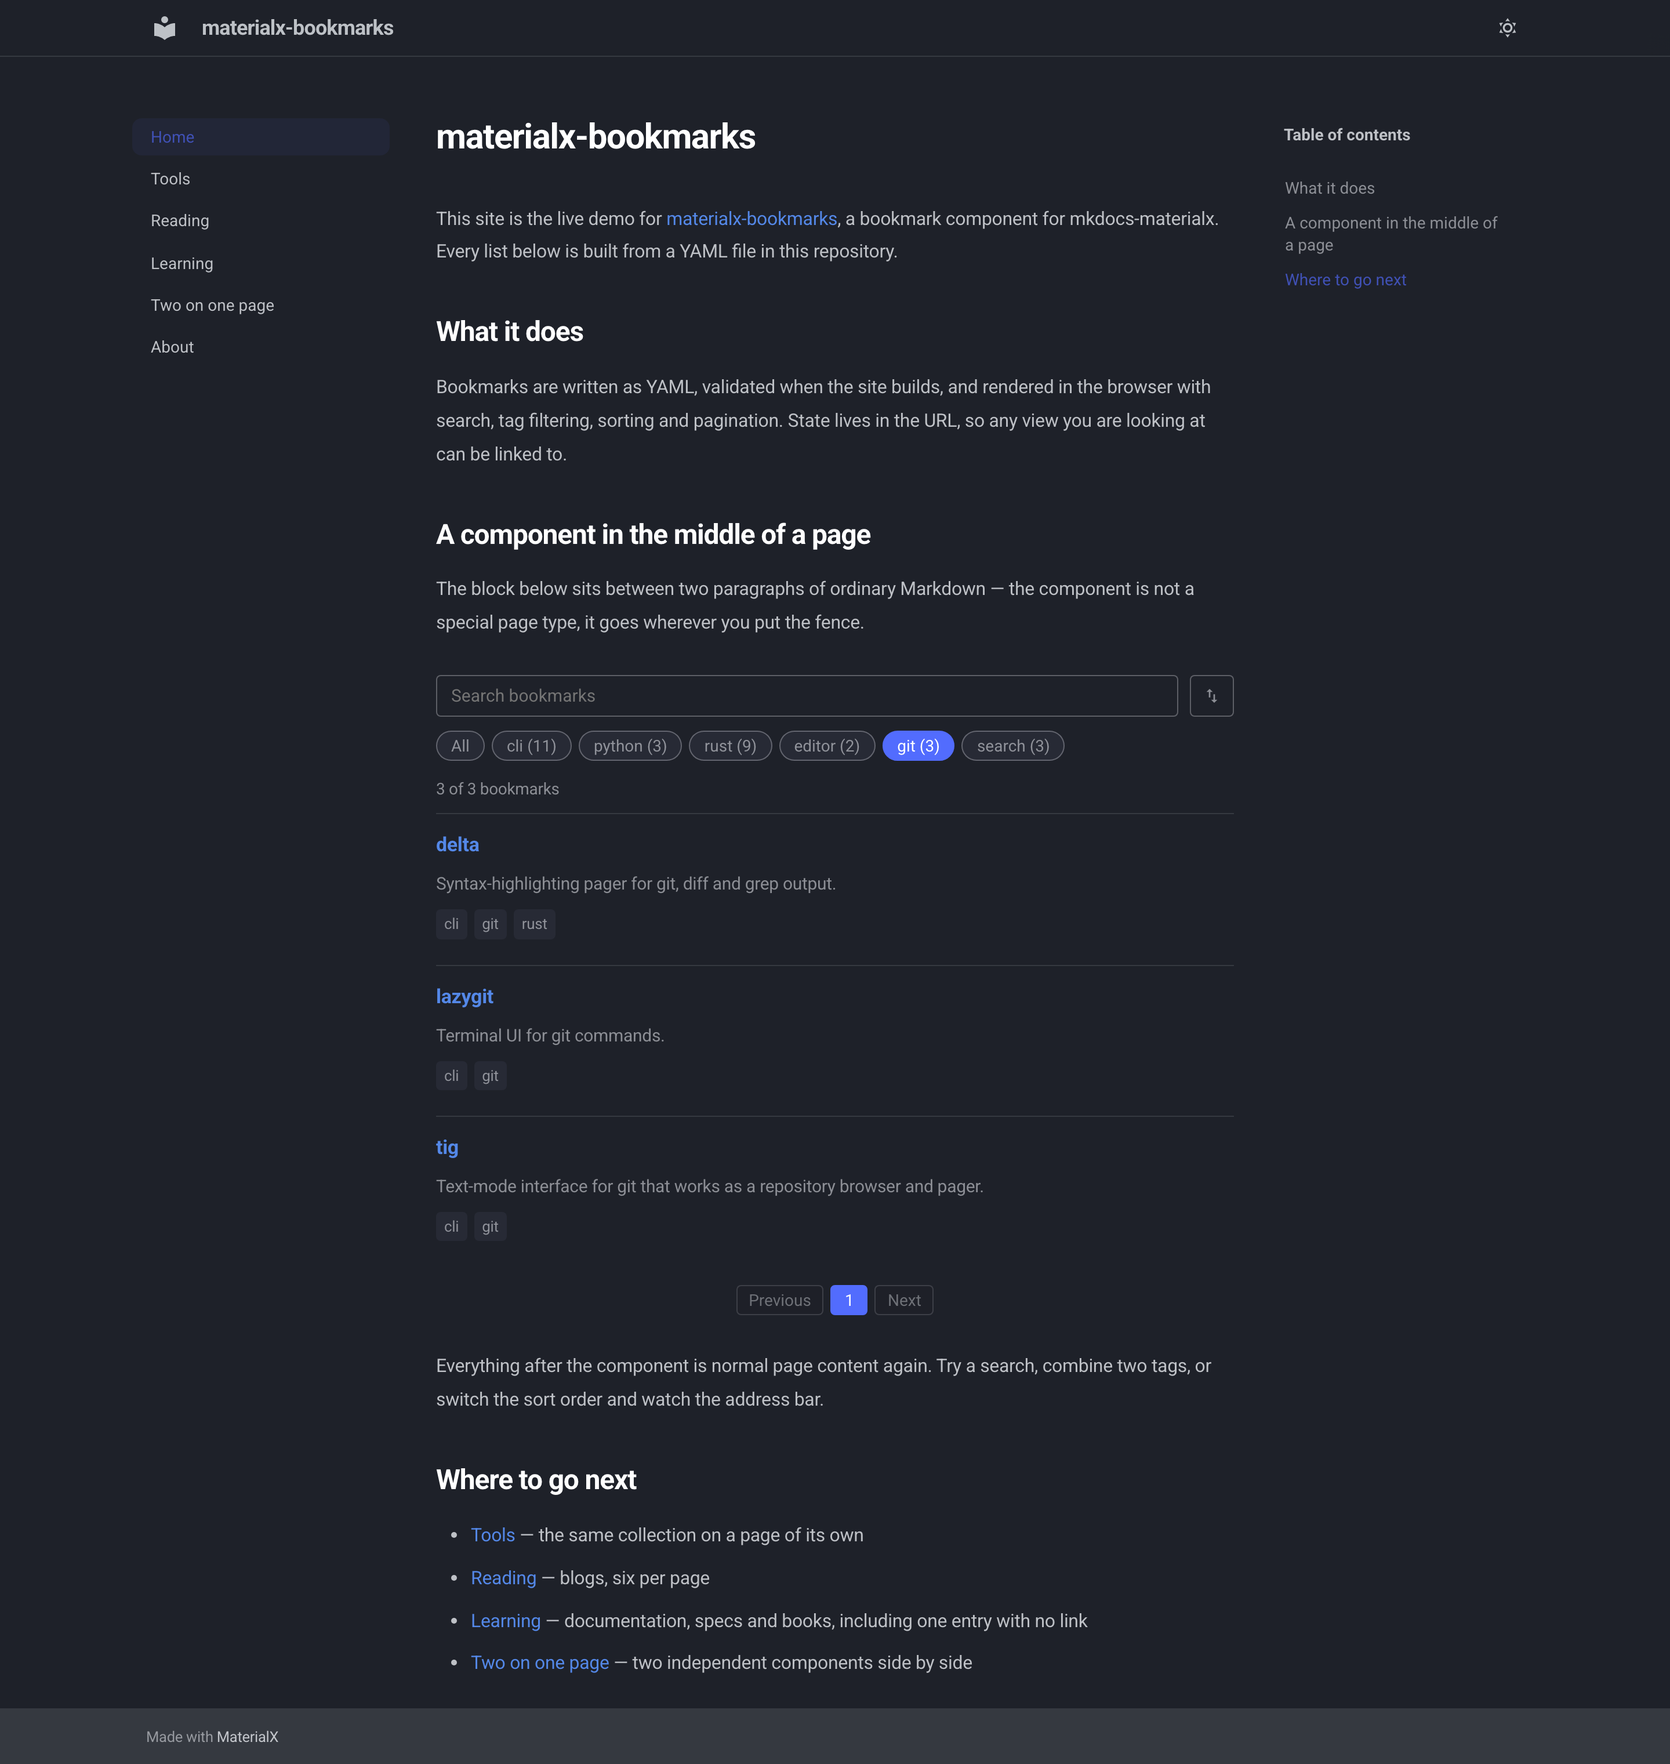
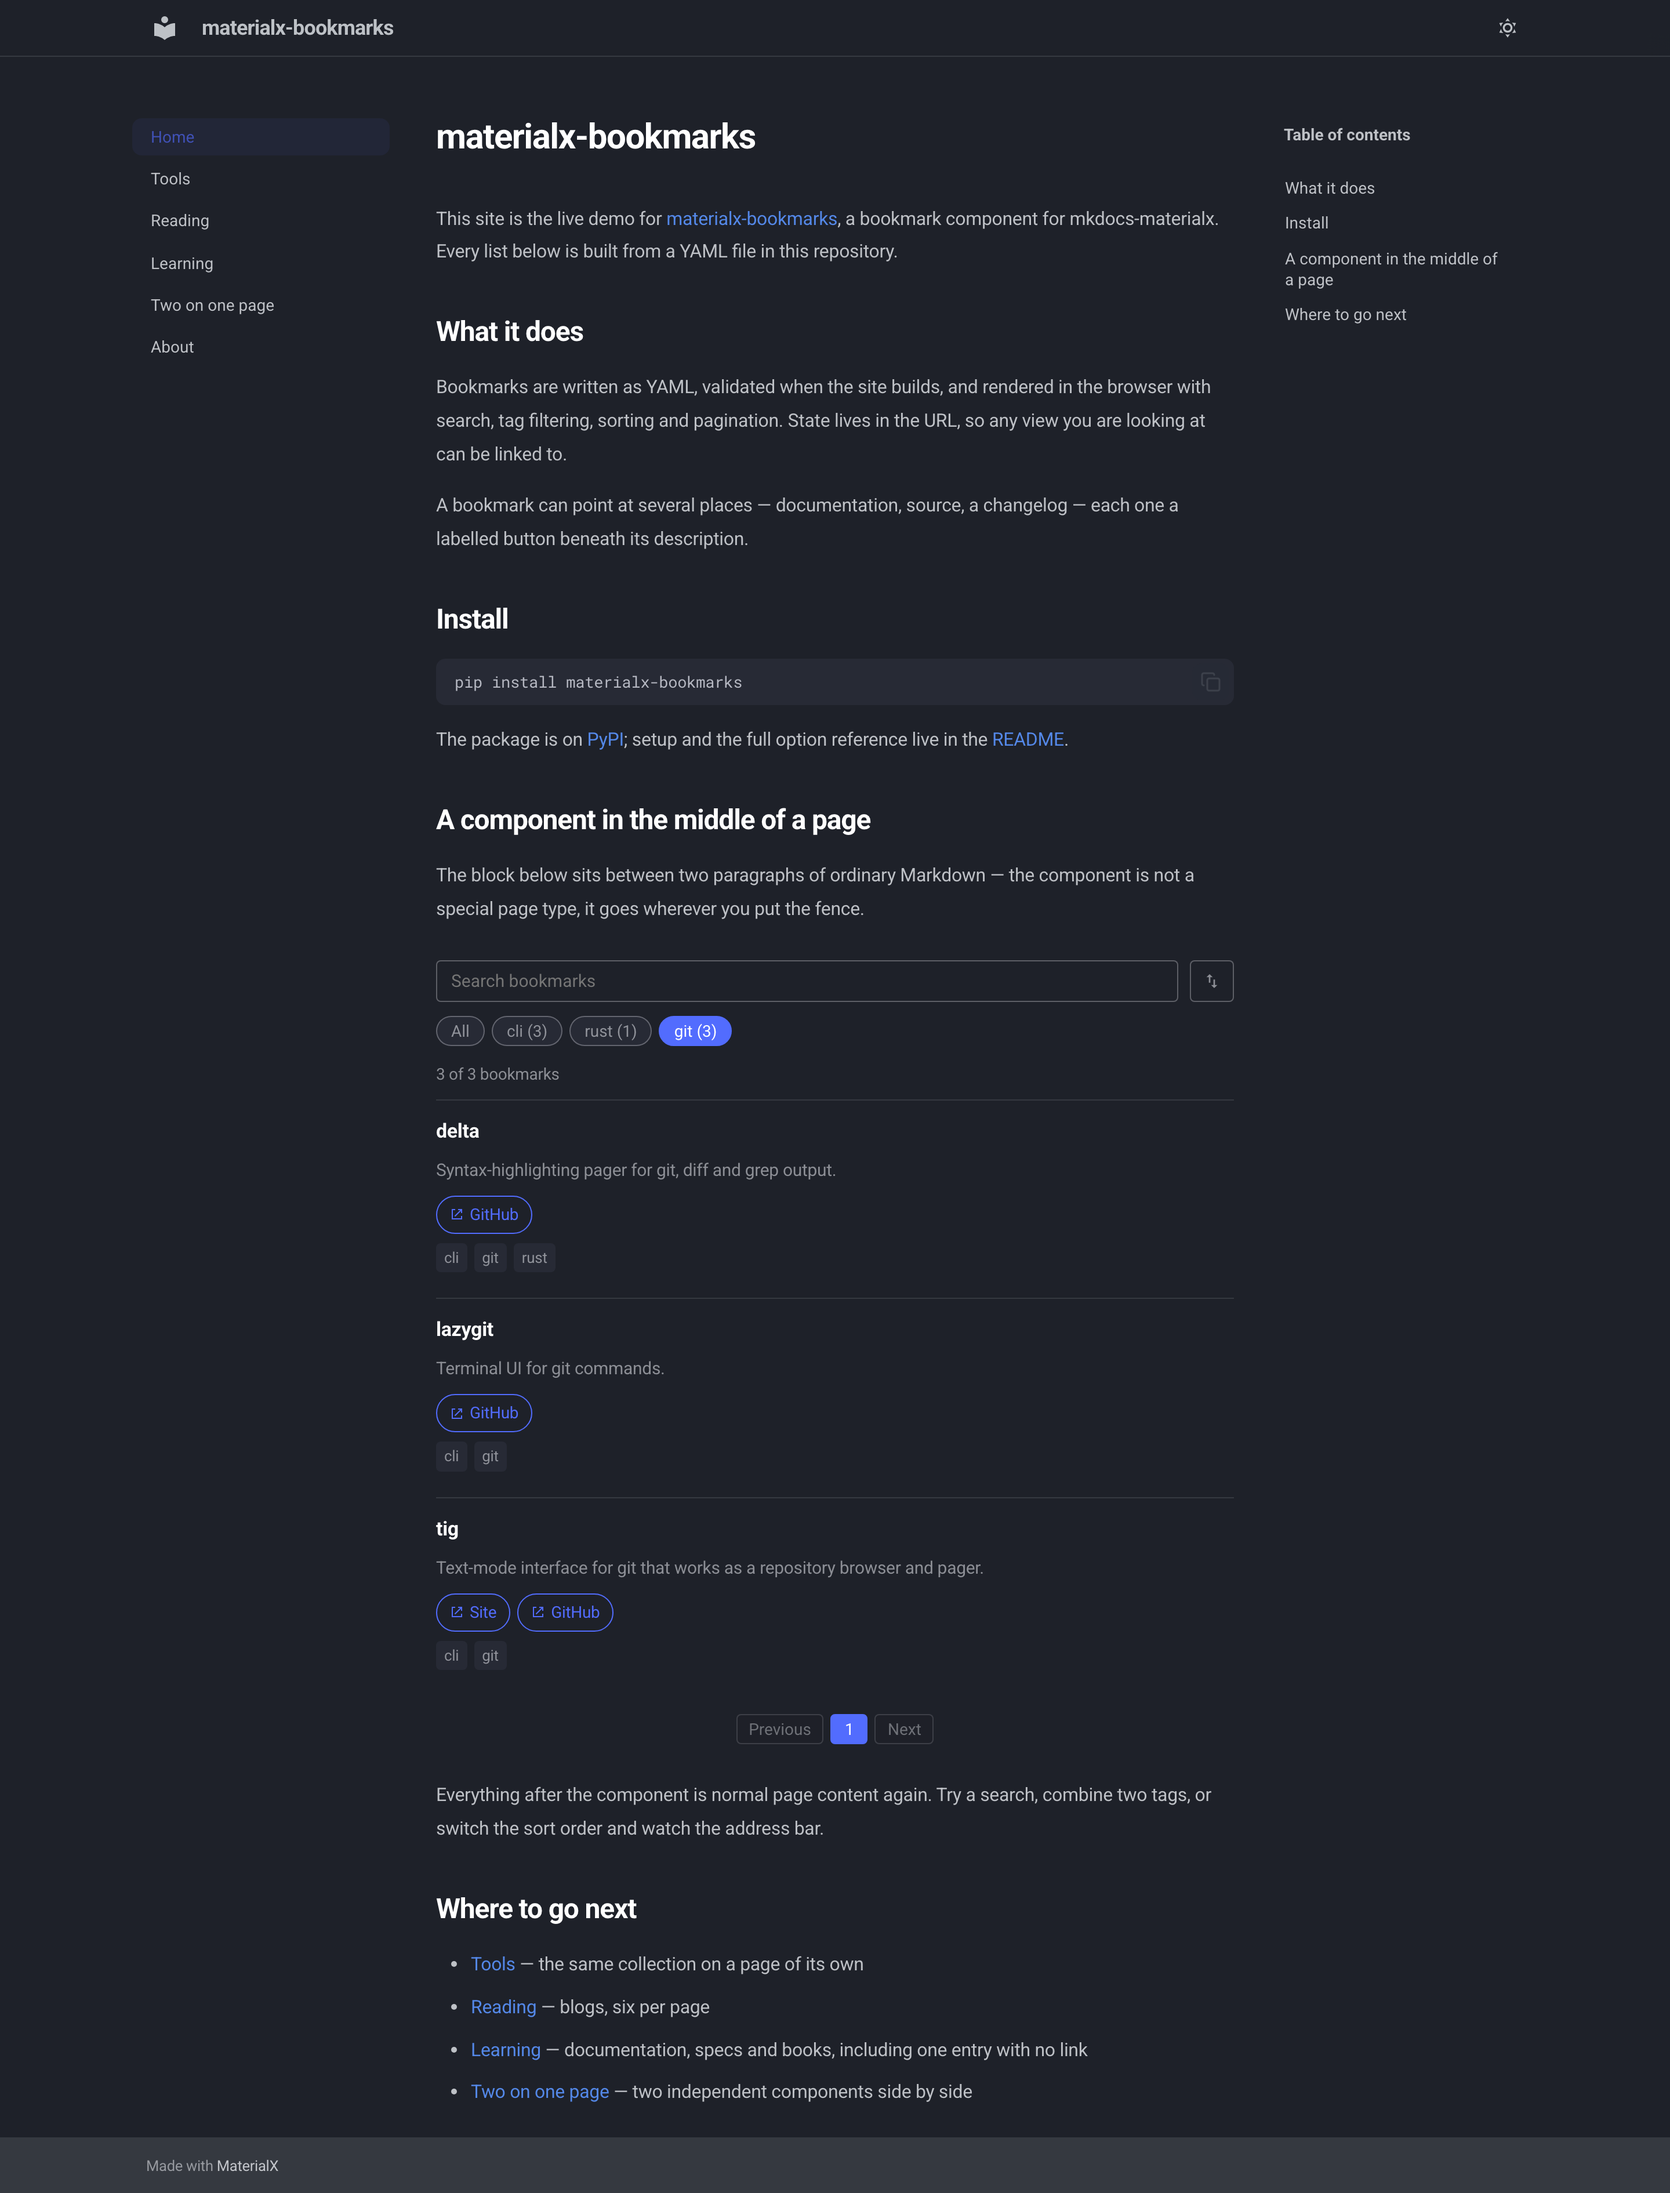
docs: refresh the screenshots and demo prose for links
The README screenshots still showed clickable titles and no link
buttons, and the demo pages described bookmarks as having a url.

diff --git a/README.md b/README.md
@@ -16,7 +16,7 @@ sorting and pagination — no JavaScript to write, no database, no build step of
 
 | Light | Dark |
 | :---: | :---: |
-| <img width="100%" alt="A full documentation page in the light theme: site header, navigation sidebar, table of contents, and a bookmark component sitting between two paragraphs of ordinary prose, showing a search box, tag chips with counts, an active git filter, three bookmarks and centered pagination." src="https://raw.githubusercontent.com/berk-karaal/materialx-bookmarks/main/.github/assets/screenshot-light.png"> | <img width="100%" alt="The same page in the dark theme, with the component inheriting the theme's colours." src="https://raw.githubusercontent.com/berk-karaal/materialx-bookmarks/main/.github/assets/screenshot-dark.png"> |
+| <img width="100%" alt="A full documentation page in the light theme: site header, navigation sidebar, table of contents, and a bookmark component sitting between two paragraphs of ordinary prose, showing a search box, tag chips with counts, an active git filter, three bookmarks each with labelled link buttons, and centered pagination." src="https://raw.githubusercontent.com/berk-karaal/materialx-bookmarks/main/.github/assets/screenshot-light.png"> | <img width="100%" alt="The same page in the dark theme, with the component inheriting the theme's colours." src="https://raw.githubusercontent.com/berk-karaal/materialx-bookmarks/main/.github/assets/screenshot-dark.png"> |
 
 ---
 

diff --git a/demo/docs/index.md b/demo/docs/index.md
@@ -10,6 +10,9 @@ Bookmarks are written as YAML, validated when the site builds, and rendered in t
 search, tag filtering, sorting and pagination. State lives in the URL, so any view you are looking
 at can be linked to.
 
+A bookmark can point at several places — documentation, source, a changelog — each one a labelled
+button beneath its description.
+
 ## Install
 
 ```bash
@@ -36,5 +39,5 @@ switch the sort order and watch the address bar.
 
 - [Tools](tools.md) — the same collection on a page of its own
 - [Reading](reading.md) — blogs, six per page
-- [Learning](learning.md) — documentation, specs and books, including one entry with no link
+- [Learning](learning.md) — documentation, specs and books, including one entry with no links
 - [Two on one page](multiple.md) — two independent components side by side

diff --git a/demo/docs/learning.md b/demo/docs/learning.md
@@ -2,8 +2,11 @@
 
 Documentation, specifications and books.
 
-The last entry in this collection has no `url`. A bookmark only requires a `title`, so entries like
-that render as plain text instead of a link.
+The last entry in this collection has no `links`. A bookmark only requires a `title`, so entries
+like that render as plain text with no buttons beneath them.
+
+Several entries here carry more than one link — the Python docs point at both the reference and the
+tutorial, and WCAG 2.2 at both the specification and its quick reference.
 
 ```bookmarks
 collection: learning
